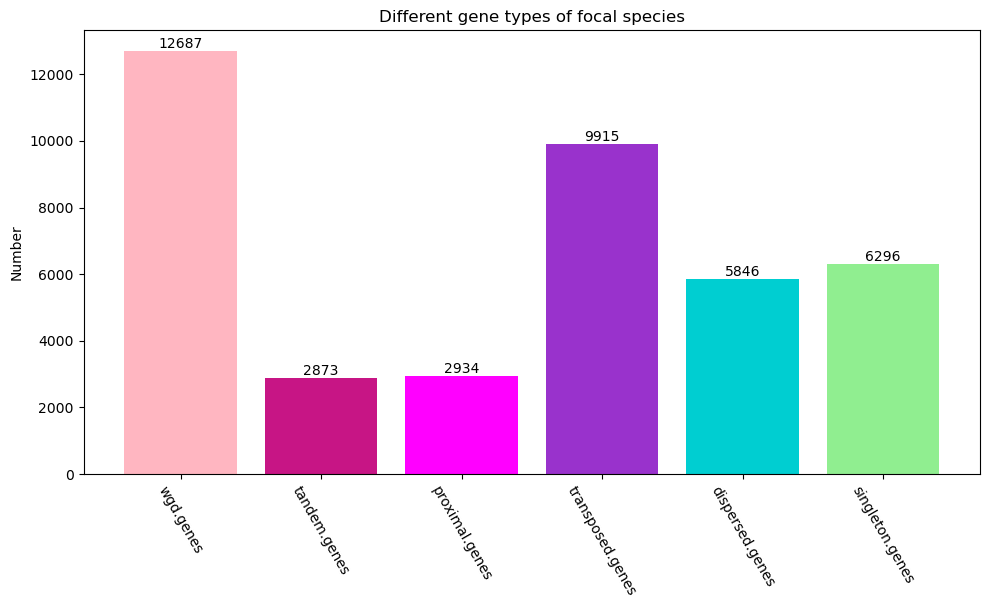
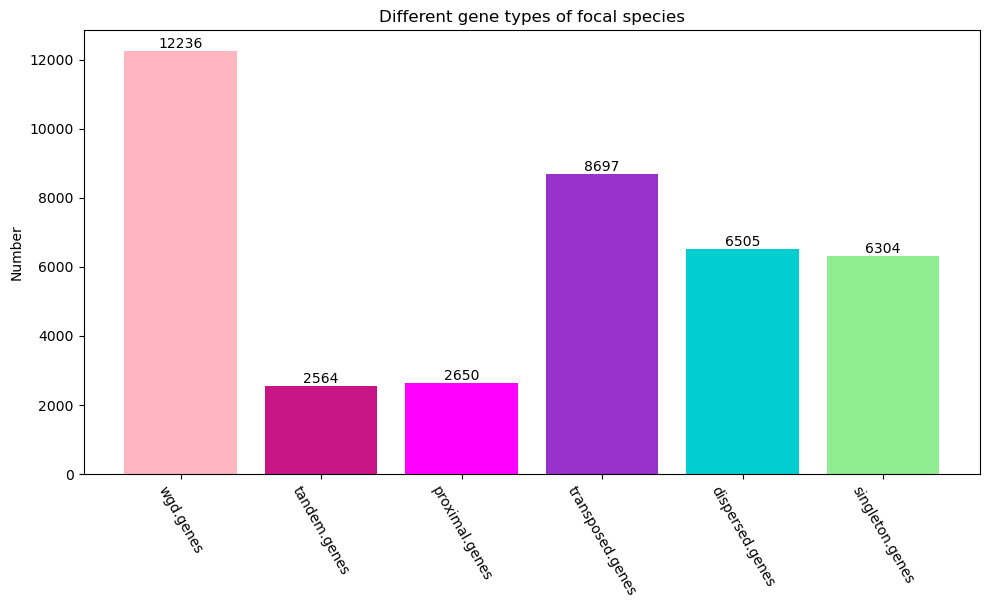
update readme

diff --git a/quota_anchor/lib/classification_gene.py b/quota_anchor/lib/classification_gene.py
@@ -106,10 +106,7 @@ def transposed_pre_df(ref_gene, ref_chr, ref_order, ref_start, query_gene, query
                 identity_dict[ref_gene + '\t' + query_gene])) / 2
             pre_df.append([ref_gene, ref_chr, ref_order, ref_start, query_gene, query_chr, query_order, query_start, avg_bs, avg_id])
         except KeyError:
-            if query_gene + '\t' + ref_gene in bitscore_dict:
-                pre_df.append([ref_gene, ref_chr, ref_order, ref_start, query_gene, query_chr, query_order, query_start, float(bitscore_dict[query_gene + '\t' + ref_gene]), float(identity_dict[query_gene + '\t' + ref_gene])])
-            else:
-                pre_df.append([ref_gene, ref_chr, ref_order, ref_start, query_gene, query_chr, query_order, query_start, float(line_bitscore), float(line_identity)])
+            pre_df.append([ref_gene, ref_chr, ref_order, ref_start, query_gene, query_chr, query_order, query_start, float(line_bitscore), float(line_identity)])
         return pre_df
     if not anc[query_gene] and anc[ref_gene] and homo_gn_md[query_gene] not in [1, 2, 3]:
         try:
@@ -119,10 +116,7 @@ def transposed_pre_df(ref_gene, ref_chr, ref_order, ref_start, query_gene, query
                 identity_dict[ref_gene + '\t' + query_gene])) / 2
             pre_df.append([query_gene, query_chr, query_order, query_start, ref_gene, ref_chr, ref_order, ref_start, avg_bs, avg_id])
         except KeyError:
-            if query_gene + '\t' + ref_gene in bitscore_dict:
-                pre_df.append([query_gene, query_chr, query_order, query_start, ref_gene, ref_chr, ref_order, ref_start, float(bitscore_dict[query_gene + '\t' + ref_gene]), float(identity_dict[query_gene + '\t' + ref_gene])])
-            else:
-                pre_df.append([query_gene, query_chr, query_order, query_start, ref_gene, ref_chr, ref_order, ref_start, float(line_bitscore), float(line_identity)])
+            pre_df.append([query_gene, query_chr, query_order, query_start, ref_gene, ref_chr, ref_order, ref_start, float(line_bitscore), float(line_identity)])
     return pre_df
 
 def get_used_dict(wgd_pair_set, tandem_pair_set, fake_proximal_pair_set, transposed_pair_set, used_gp_dict):
@@ -460,10 +454,7 @@ class ClassGene:
                         avg_id = (float(identity_dict[query_gene + '\t' + ref_gene]) + float(identity_dict[ref_gene + '\t' + query_gene])) / 2
                         dispersed_pre_df.append([ref_gene, ref_chr, ref_order, ref_start, query_gene, query_chr, query_order, query_start, avg_bs, avg_id])
                     except KeyError:
-                        if query_gene + '\t' + ref_gene in bitscore_dict:
-                            dispersed_pre_df.append([ref_gene, ref_chr, ref_order, ref_start, query_gene, query_chr, query_order ,query_start, float(bitscore_dict[query_gene + '\t' + ref_gene]), float(identity_dict[query_gene + '\t' + ref_gene])])
-                        else:
-                            dispersed_pre_df.append([ref_gene, ref_chr, ref_start, query_gene, query_chr, query_start, float(line[12]), float(line[13])])
+                        dispersed_pre_df.append([ref_gene, ref_chr, ref_start, query_gene, query_chr, query_start, float(line[12]), float(line[13])])
                 bar()
         df = pd.DataFrame(dispersed_pre_df, columns=['Duplicate1', 'chr1', 'order1', 'start1', 'Duplicate2', 'chr2', 'order2', 'start2', 'bitscore', 'identity'])
         
@@ -480,6 +471,7 @@ class ClassGene:
                 dup_gene1, chr1, order1 ,start1, dup_gene2, chr2, order2 ,start2, bitscore, identity = list(line)
                 if dup_gene2 + '\t' + dup_gene1 not in dispersed_pair_set:
                     # rm ab ba
+                    # TODO: homo_gn_md[dup_gene1] in [1, 2, 3, 4] and homo_gn_md[dup_gene2] in [1, 2, 3, 4] --> continue
                     dispersed_pair_number += 1
                     dispersed_pair_file.write(dup_gene2 + "\t" + output_prefix + "-" + chr2 + "-" + order2 + "-" + start2 + "\t" +
                                               dup_gene1 + "\t" + output_prefix + "-" + chr1 + "-" + order1 + "-" + start1 + "\n")
@@ -911,10 +903,7 @@ class ClassGeneUnique:
                         avg_id = (float(identity_dict[query_gene + '\t' + ref_gene]) + float(identity_dict[ref_gene + '\t' + query_gene])) / 2
                         dispersed_pre_df.append([ref_gene, ref_chr, ref_start, query_gene, query_chr, query_start, avg_bs, avg_id])
                     except KeyError:
-                        if query_gene + '\t' + ref_gene in bitscore_dict:
-                            dispersed_pre_df.append([ref_gene, ref_chr, ref_order, ref_start, query_gene, query_chr, query_order, query_start, float(bitscore_dict[query_gene + '\t' + ref_gene]), float(identity_dict[query_gene + '\t' + ref_gene])])
-                        else:
-                            dispersed_pre_df.append([ref_gene, ref_chr, ref_order, ref_start, query_gene, query_chr, query_order, query_start, float(line[12]), float(line[13])])
+                        dispersed_pre_df.append([ref_gene, ref_chr, ref_order, ref_start, query_gene, query_chr, query_order, query_start, float(line[12]), float(line[13])])
                 bar()
         df = pd.DataFrame(dispersed_pre_df, columns=['Duplicate1', 'chr1', 'order1', 'start1', 'Duplicate2', 'chr2', 'order2', 'start2', 'bitscore', 'identity'])
         # DupGen_finder-unique don't have this procedure

diff --git a/README_zh.md b/README_zh.md
@@ -252,7 +252,7 @@ quota_Anchor circle -i sb_sb.collinearity -o sb_sb.circle.png --overwrite -r ../
 1. 玉米和玉米的共线性分析
 
     ```command
-    quota_Anchor pre_col -a diamond -rs maize.protein.fa -qs maize.protein.fa -db maize.database.diamond -mts 20 -e 1e-10 -b maize.maize.diamond -rg maize.gff3 -qg maize.gff3 -o zm_zm.table -bs 100 -al 0 -rl maize.length.txt -ql maize.length.txt --overwrite
+    quota_Anchor pre_col -a diamond -rs maize.protein.fa -qs maize.protein.fa -db maize.database.diamond -mts 5 -e 1e-10 -b maize.maize.diamond -rg maize.gff3 -qg maize.gff3 -o zm_zm.table -bs 100 -al 0 -rl maize.length.txt -ql maize.length.txt --overwrite
     quota_Anchor col -i zm_zm.table -o zm_zm.collinearity -s 0 -m 500 -W 5 -E -0.005 -D 25 -a 1 --overwrite
     ```
 

diff --git a/README.md b/README.md
@@ -259,7 +259,7 @@ This pipeline refers to [DupGen_finder](https://github.com/qiao-xin/DupGen_finde
 1. Synteny Analysis of intra-Maize
 
     ```command
-    quota_Anchor pre_col -a diamond -rs maize.protein.fa -qs maize.protein.fa -db maize.database.diamond -mts 20 -e 1e-10 -b maize.maize.diamond -rg maize.gff3 -qg maize.gff3 -o zm_zm.table -bs 100 -al 0 -rl maize.length.txt -ql maize.length.txt --overwrite
+    quota_Anchor pre_col -a diamond -rs maize.protein.fa -qs maize.protein.fa -db maize.database.diamond -mts 5 -e 1e-10 -b maize.maize.diamond -rg maize.gff3 -qg maize.gff3 -o zm_zm.table -bs 100 -al 0 -rl maize.length.txt -ql maize.length.txt --overwrite
     quota_Anchor col -i zm_zm.table -o zm_zm.collinearity -s 0 -m 500 -W 5 -E -0.005 -D 25 -a 1 --overwrite
     ```
 
